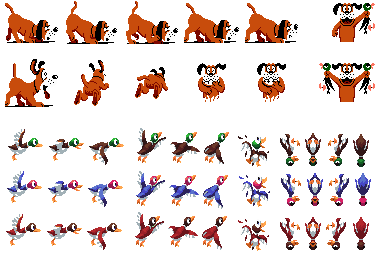
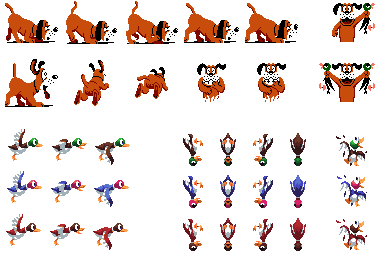
birds sprite almost complete

Changed region(s): [[0.1173, 0.6292, 0.9973, 0.9588], [0.1173, 0.4794, 0.9973, 0.6292]]

diff --git a/test.js b/test.js
@@ -81,20 +81,32 @@ class Duck {
         this.duckDiv.style.height = w + 'px';
 
 
-        this.duckImg = document.createElement('img');
+        this.duckImg = document.createElement('div');
 
         switch (this.colour){
             case "red":
-                this.duckImg.src = 'images/red_duck.gif';
+                clearInterval(this.tIdBird);
+                this.duckImg.style.background =  "url('images/pixelArt.png')";
+                this.duckImg.style.backgroundSize = '800% 700%';
+                this.duckImg.style.backgroundPosition = '0px -535px';
                 this.speed = 5;
+                redBirdFlyingLoop.call(this);
                 break;
             case "blue":
-                this.duckImg.src = 'images/blue_duck.gif';
+                clearInterval(this.tIdBird);
+                this.duckImg.style.background =  "url('images/pixelArt.png')";
+                this.duckImg.style.backgroundSize = '800% 700%';
+                this.duckImg.style.backgroundPosition = '-2px -430px';
                 this.speed = 4;
+                blueBirdFlyingLoop.call(this);
                 break;
             case "brown":
-                this.duckImg.src = 'images/brown_duck.gif';
+                clearInterval(this.tIdBird);
+                this.duckImg.style.background =  "url('images/pixelArt.png')";
+                this.duckImg.style.backgroundSize = '800% 700%';
+                this.duckImg.style.backgroundPosition = '-3px -330px';
                 this.speed = 3;
+                brownBirdFlyingLoop.call(this);
                 break;
         }
 
@@ -125,8 +137,8 @@ class Duck {
     }
 
     falling(){
-        this.duckImg.style.width = '65%';
-        this.duckImg.style.height = '100%';
+        // this.duckImg.style.width = '65%';
+        // this.duckImg.style.height = '100%';
         this.diry = -5;
         this.y += -this.diry;
         // this.duckImg.src = 'images/brown_duck_falling.gif';
@@ -278,17 +290,23 @@ document.addEventListener("mousedown", function (event) {
     let tempDucks = ducks.length;
     for (let i = ducks.length - 1; i > -1; i--) {
         if (ducks[i].clickMe()) {
-            colouredDucks(i);
+            shotDucks(i);
             setTimeout(function (duckImg, duckDies, duck) {
                 switch (duck.colour){
                     case "red":
-                        duckImg.src = 'images/red_duck_falling.gif';
+                        clearInterval(duck.tIdBird);
+                        duck.duckImg.style.backgroundPosition = '-350px -558px';
+                        // redBirdFallingLoop.call(duck);
                         break;
                     case "blue":
-                        duckImg.src = 'images/blue_duck_falling.gif';
+                        clearInterval(duck.tIdBird);
+                        duck.duckImg.style.backgroundPosition = '-350px -448px';
+                        // blueBirdFallingLoop.call(duck);
                         break;
                     case "brown":
-                        duckImg.src = 'images/brown_duck_falling.gif';
+                        clearInterval(duck.tIdBird);
+                        duck.duckImg.style.backgroundPosition = '-350px -338px';
+                        // brownBirdFallingLoop.call(duck);
                         break;
                 };
                 pew.volume = 1;
@@ -352,18 +370,21 @@ function audioVolume() {
     pew.volume = 1;
 }
 
-function colouredDucks(i) {
+function shotDucks(i) {
     switch (ducks[i].colour) {
         case "brown":
-            ducks[i].duckImg.src = 'images/brown_duck_shot.gif';
+            clearInterval(ducks[i].tIdBird);
+            ducks[i].duckImg.style.backgroundPosition = '-690px -338px';
             score += 100;
             break;
         case "blue":
-            ducks[i].duckImg.src = 'images/blue_duck_shot.png';
+            clearInterval(ducks[i].tIdBird);
+            ducks[i].duckImg.style.backgroundPosition = '-690px -438px';
             score += 300;
             break;
         case "red":
-            ducks[i].duckImg.src = 'images/red_duck_shot.png';
+            clearInterval(ducks[i].tIdBird);
+            ducks[i].duckImg.style.backgroundPosition = '-690px -558px';
             score += 500;
             break;
     }
@@ -373,7 +394,7 @@ function colouredDucks(i) {
 
 function nukeTheBurbs() {
     for (let i = 0; i <= ducks.length;) {
-        colouredDucks(i);
+        shotDucks(i);
         setTimeout(function (duckImg, duckDies, ducks) {
             switch (ducks.colour) {
                 case "red":
@@ -471,6 +492,44 @@ function dogLaughLoop() {
             position = position + 205;
         } else {
             position = 600;
+        }
+    }, 220);
+}
+
+function brownBirdFlyingLoop() {
+    let position = 0;
+    this.tIdBird = setInterval(() => {
+        this.duckImg.style.backgroundPosition =
+            `-${position}px -330px`;
+        if (position < 150) {
+            position = position + 93;
+        } else {
+            position = 0;
+        }
+    }, 220);
+}
+function blueBirdFlyingLoop() {
+    let position = 0;
+    this.tIdBird= setInterval ( () => {
+        this.duckImg.style.backgroundPosition =
+            `-${position}px -438px`;
+        if (position < 150) {
+            position = position + 92;
+        } else {
+            position = 0;
+        }
+    }, 220);
+}
+
+function redBirdFlyingLoop() {
+    let position = 0;
+    this.tIdBird = setInterval ( () => {
+        this.duckImg.style.backgroundPosition =
+            `-${position}px -548px`;
+        if (position < 150) {
+            position = position + 92;
+        } else {
+            position = 0;
         }
     }, 220);
 }
